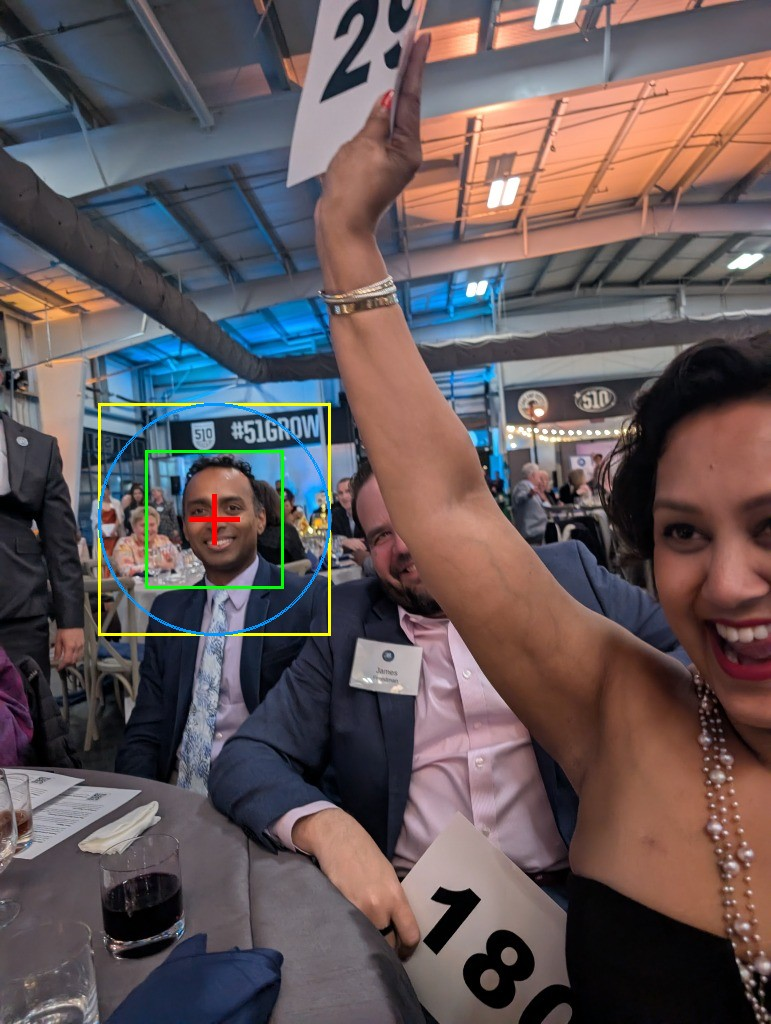
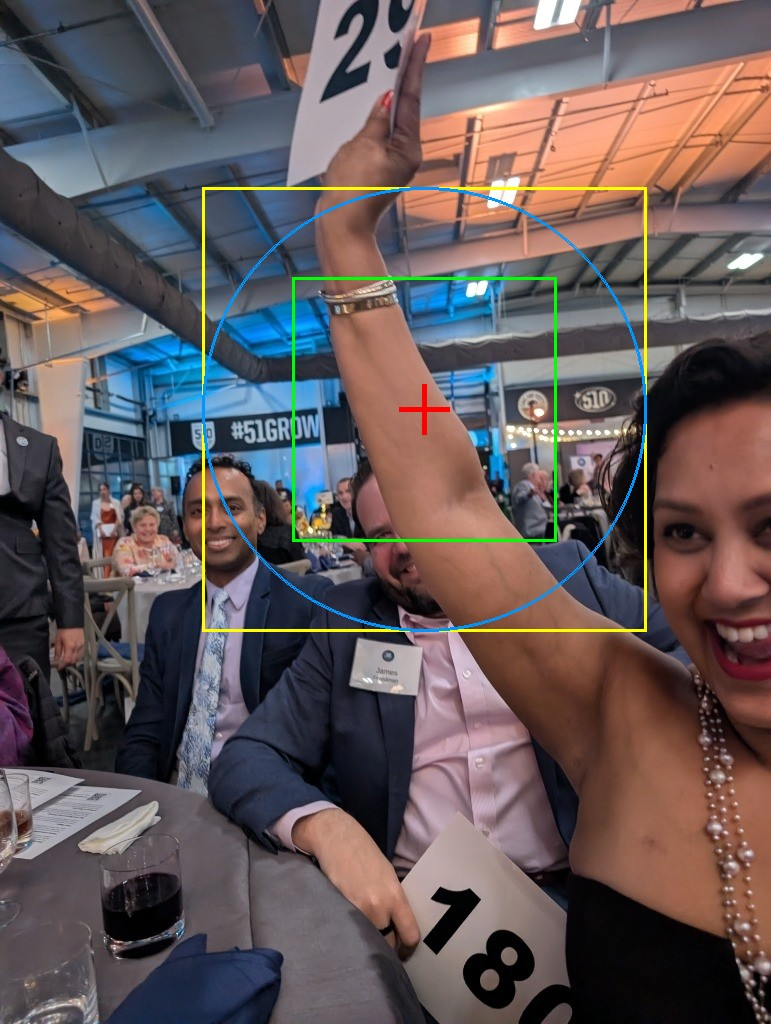
fix(headshot): update roopak_kandasamy headshot & deployment

diff --git a/src/data/sampleData.js b/src/data/sampleData.js
@@ -1,4 +1,4 @@
-export const BUILD_TIMESTAMP = 1788755213700;
+export const BUILD_TIMESTAMP = 1788755311571;
 // Real Wedding Guest List Data - Auto-updated via Host Admin Suite
 export const COHORT_COLORS = {
   "The Couple": "#38bdf8",

diff --git a/scripts/recalibrate_with_opencv.py b/scripts/recalibrate_with_opencv.py
@@ -43,7 +43,7 @@ GUEST_CALIBRATION_SPECS = {
     "nishat_shaikh": {"raw_source": "raw_sources/nishat_shaikh__orig_media__1788683256461.jpg", "cx_pct": 0.496, "cy_pct": 0.371, "face_h_px": 386},
     "nur_e_freedman": {"raw_source": "raw_sources/nur_e_freedman__orig_media.jpg", "cx_pct": 0.586, "cy_pct": 0.312, "face_h_px": 750},
     "nichole_remmert": {"raw_source": "raw_sources/nichole_remmert__orig_media.jpg", "cx_pct": 0.675, "cy_pct": 0.585, "face_h_px": 400},
-    "roopak_kandasamy": {"raw_source": "raw_sources/roopak_kandasamy__orig_media__1788713903063.jpg", "cx_pct": 0.278, "cy_pct": 0.507, "face_h_px": 135},
+    "roopak_kandasamy": {"raw_source": "raw_sources/roopak_kandasamy__orig_media.jpg", "cx_pct": 0.550, "cy_pct": 0.400, "face_h_px": 260},
     "romana_rajput": {"raw_source": "raw_sources/romana_rajput__orig_media__1788716129.jpg", "cx_pct": 0.585, "cy_pct": 0.460, "face_h_px": 145},
     "ryan_anthony": {"raw_source": "raw_sources/ryan_anthony__orig_media__1788715848.jpg", "cx_pct": 0.460, "cy_pct": 0.400, "face_h_px": 203},
     "steve_nares": {"raw_source": "raw_sources/steve_nares__orig_media__1788683169013.jpg", "cx_pct": 0.500, "cy_pct": 0.450, "face_h_px": 160},
